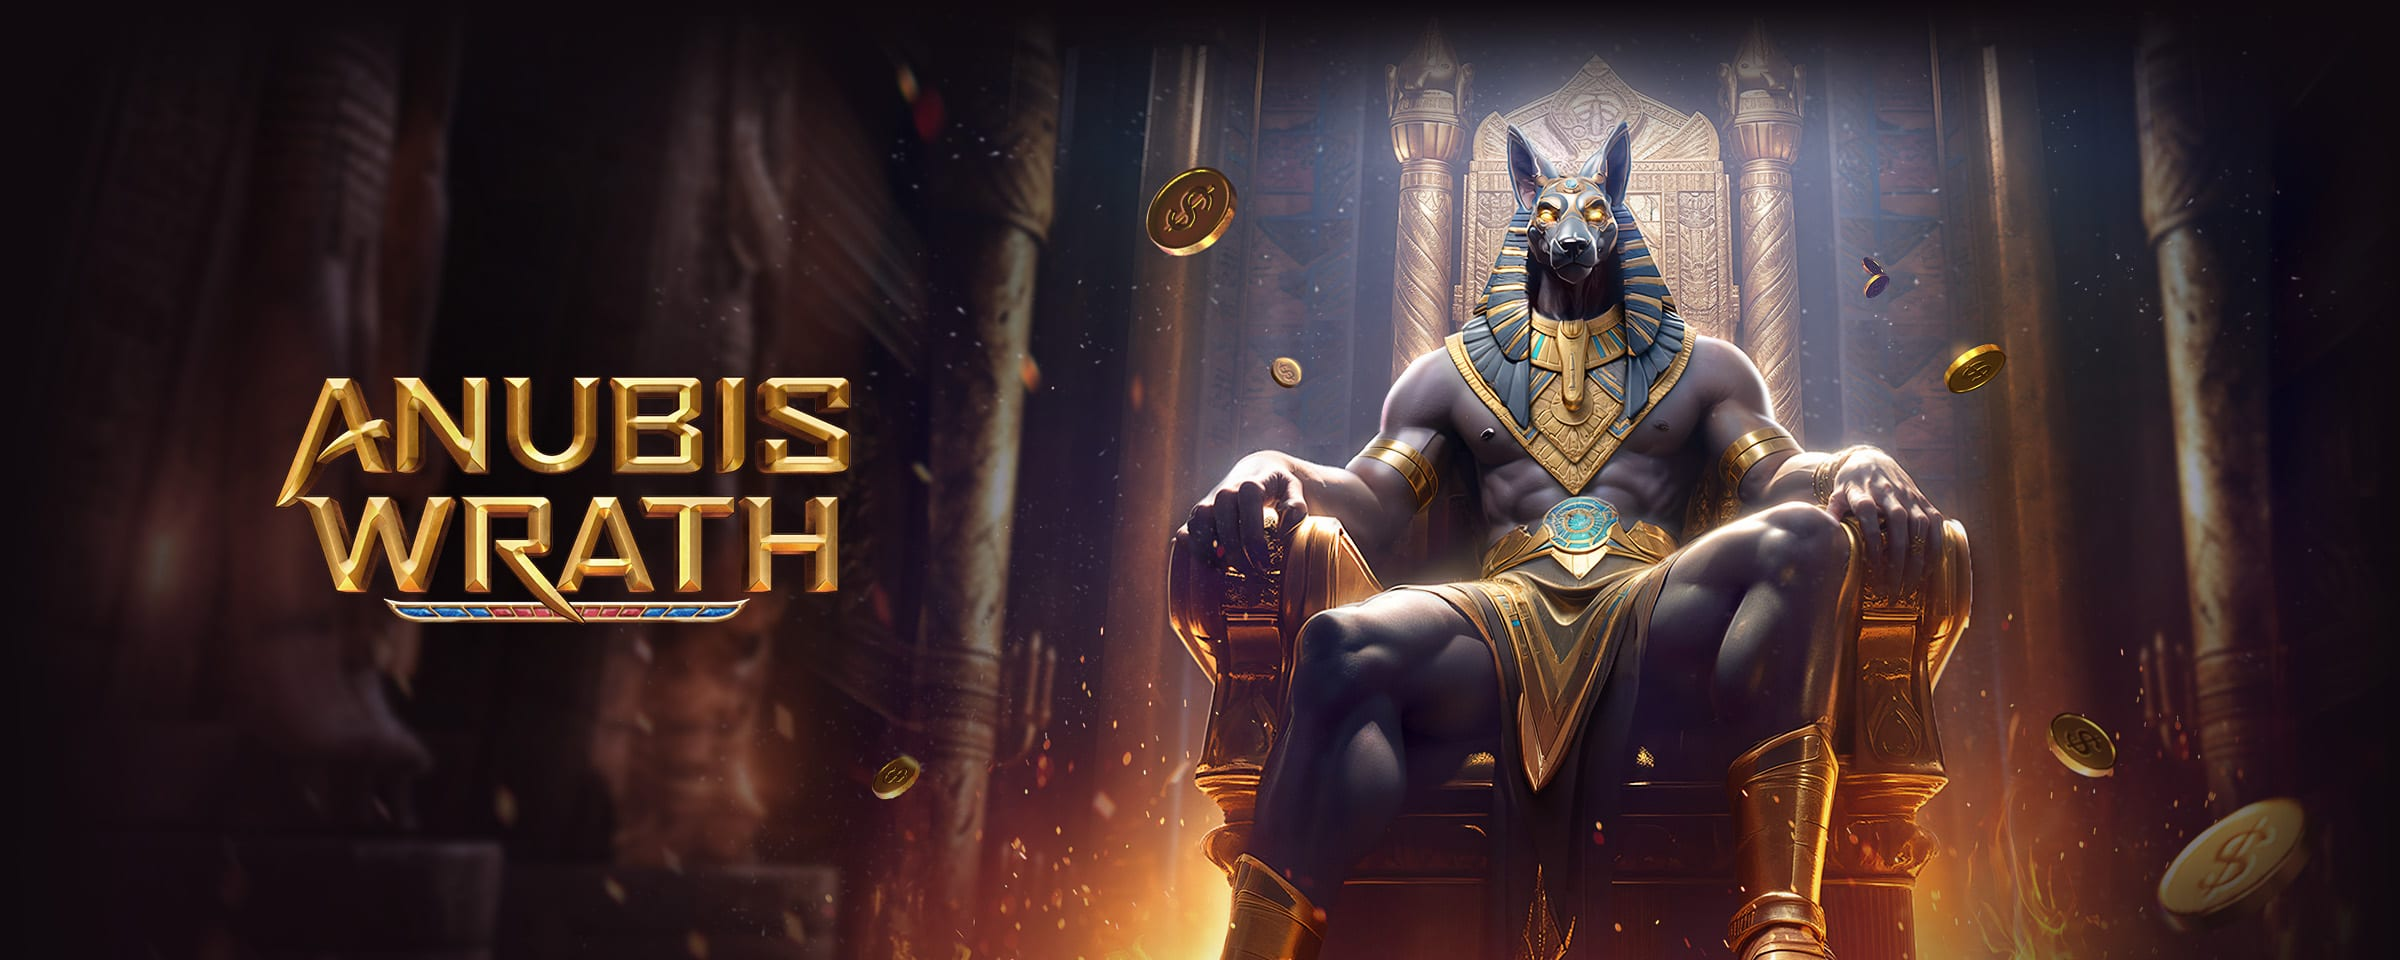
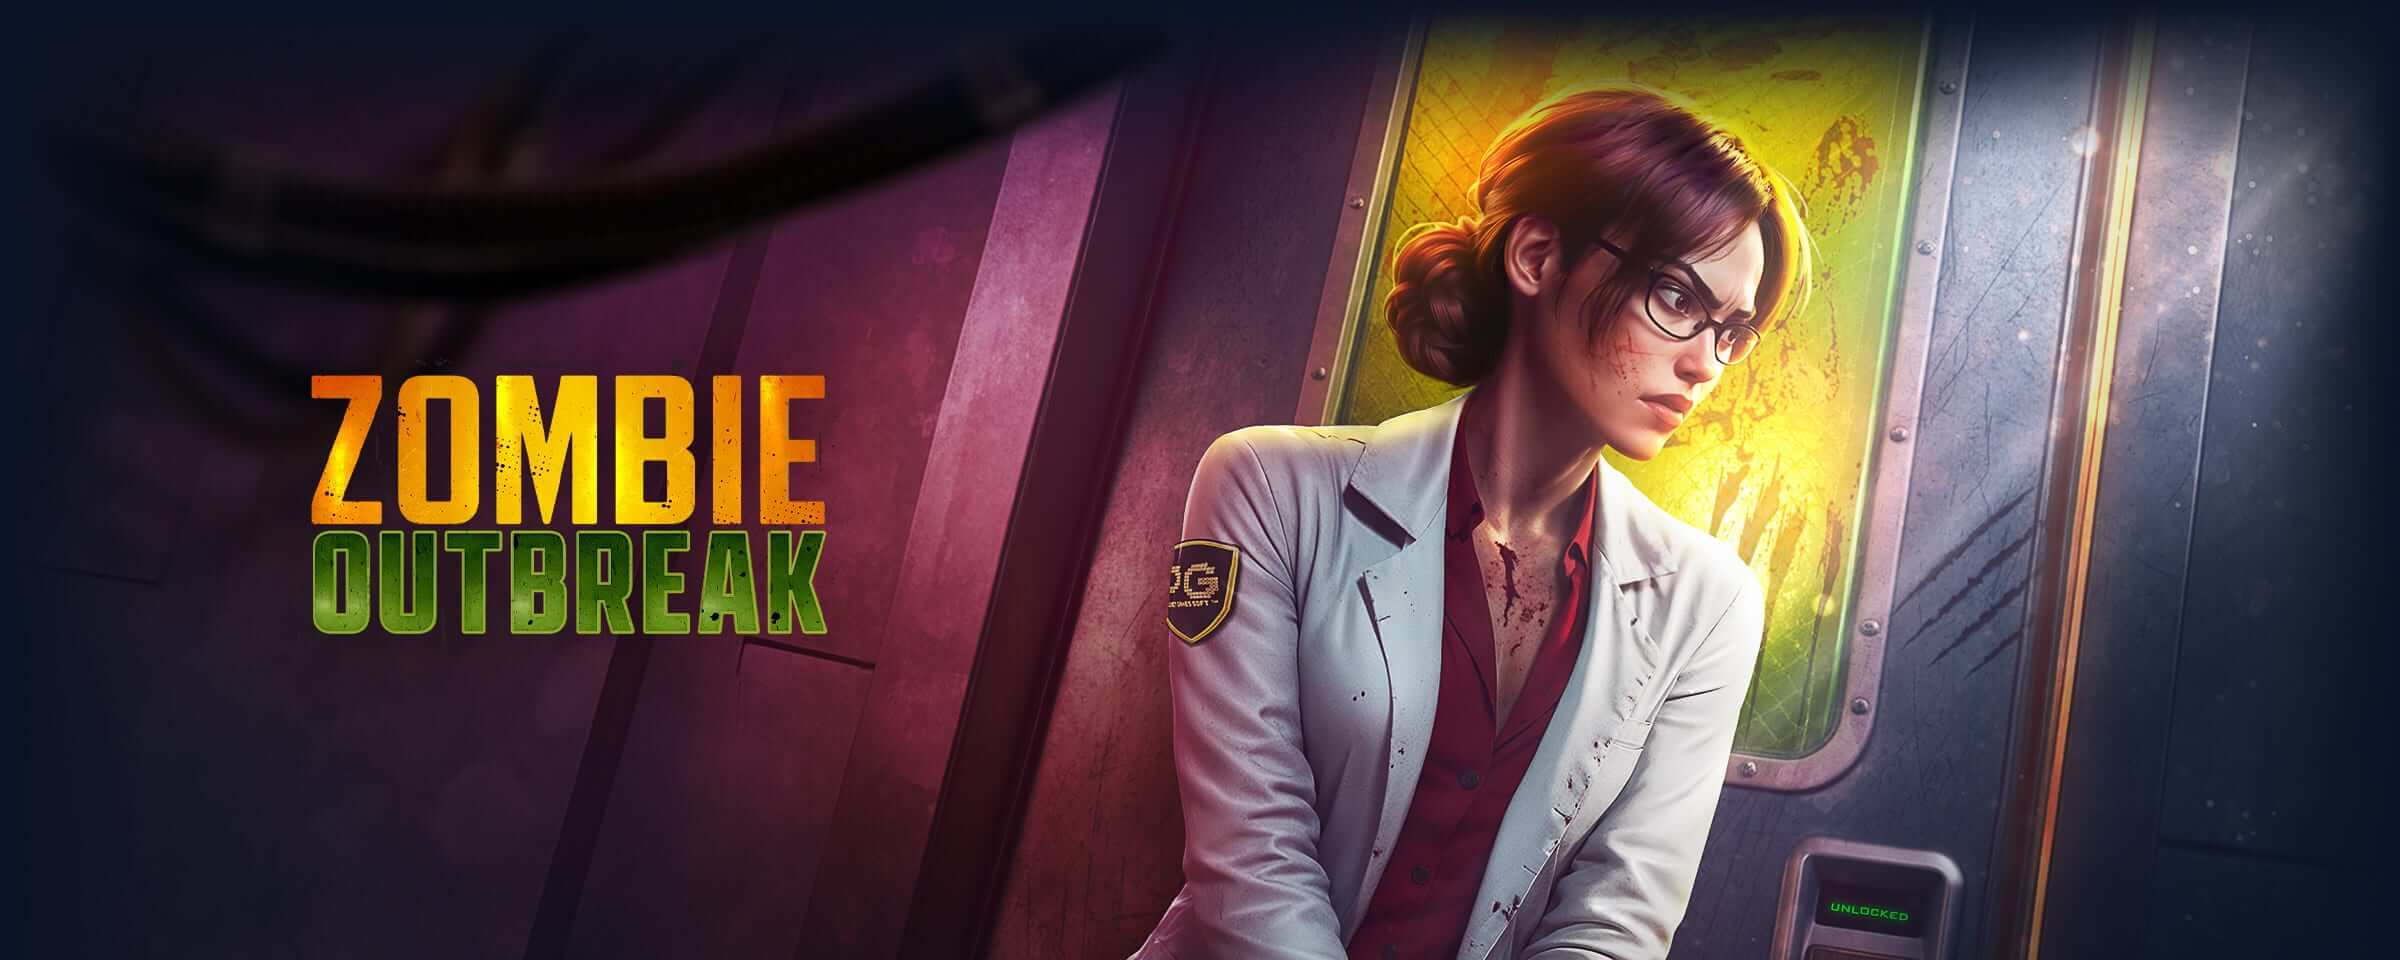
Update slider code and add images

diff --git a/pages/index.tsx b/pages/index.tsx
@@ -4,18 +4,15 @@ import React from "react";
 import Header from "@/components/Header";
 import BackgroundImage from "@/components/BackgroundImage";
 import Slides from "@/components/Slides";
-import SlideInfo from "@/components/SlideInfo";
 import Controls from "@/components/Controls";
 
 const inter = Righteous({
   subsets: ["latin"],
   weight: ["400"],
 });
+
 export type Data = {
   img: string;
-  title: string;
-  description: string;
-  location: string;
 };
 
 export type CurrentSlideData = {
@@ -25,36 +22,30 @@ export type CurrentSlideData = {
 
 export default function Home() {
   const [data, setData] = React.useState<Data[]>(sliderData.slice(1));
-  const [transitionData, setTransitionData] = React.useState<Data>(
-    sliderData[0]
-  );
-  const [currentSlideData, setCurrentSlideData] =
-    React.useState<CurrentSlideData>({
-      data: initData,
-      index: 0,
-    });
+  const [transitionData, setTransitionData] = React.useState<Data>(sliderData[0]);
+  const [currentSlideData, setCurrentSlideData] = React.useState<CurrentSlideData>({
+    data: initData,
+    index: 0,
+  });
 
   return (
     <main
-      className={`
-       ${inter.className}
-        relative min-h-screen select-none overflow-hidden text-white antialiased`}
+      className={`${
+        inter.className
+      } relative min-h-screen select-none overflow-hidden text-white antialiased`}
     >
       <AnimatePresence>
         <BackgroundImage
           transitionData={transitionData}
           currentSlideData={currentSlideData}
         />
-        <div className="  absolute z-20  h-full w-full">
+        <div className="absolute z-20 h-full w-full">
           <Header />
-          <div className=" flex h-full w-full grid-cols-10 flex-col md:grid">
-            <div className=" col-span-4 mb-3 flex h-full flex-1 flex-col justify-end px-5 md:mb-0 md:justify-center md:px-10">
-              <SlideInfo
-                transitionData={transitionData}
-                currentSlideData={currentSlideData}
-              />
+          <div className="flex h-full w-full grid-cols-10 flex-col md:grid">
+            <div className="col-span-4 mb-3 flex h-full flex-1 flex-col justify-end px-5 md:mb-0 md:justify-center md:px-10">
+              {/* Removed SlideInfo component as it is using removed data */}
             </div>
-            <div className=" col-span-6 flex h-full flex-1 flex-col justify-start p-4 md:justify-center md:p-10">
+            <div className="col-span-6 flex h-full flex-1 flex-col justify-start p-4 md:justify-center md:p-10">
               <Slides data={data} />
               <Controls
                 currentSlideData={currentSlideData}
@@ -77,87 +68,45 @@ export default function Home() {
 const sliderData = [
   {
     img: "/1.jpg",
-    location: "Switzrerland Apls",
-    description:
-      "The journey to Machu Picchu typically starts in the mountain city of Cusco, which was the capital city of the Inca Empire",
-    title: "SAINT ANTÖNEN",
   },
   {
     img: "/2.jpg",
-    title: "The Grand Canyon",
-    description:
-      "The earth's geological history opens before your eyes in a mile-deep chasm",
-    location: "Arizona",
   },
   {
     img: "/3.jpg",
-    title: "Masai Mara",
-    description:
-      "Wild animals in their natural environment, luxury safari lodges",
-    location: "Kenya",
   },
   {
     img: "/4.jpg",
-    title: "Angkor Wat",
-    description:
-      "A stunning ancient jungle city with hundreds of intricately constructed temples",
-    location: "Cambodia",
   },
   {
     img: "/5.jpg",
-    title: "Bali",
-    description:
-      "Tropical beaches, volcano hikes, ancient temples, and friendly people",
-    location: "Indonesia",
   },
   {
     img: "/6.jpg",
-    title: "Bali",
-    description:
-      "Tropical beaches, volcano hikes, ancient temples, and friendly people",
-    location: "Indonesia",
   },
   {
     img: "/7.jpg",
-    title: "Bali",
-    description:
-      "Tropical beaches, volcano hikes, ancient temples, and friendly people",
-    location: "Indonesia",
   },
   {
-    img: "/8.jpg",
-    title: "Bali",
-    description:
-      "Tropical beaches, volcano hikes, ancient temples, and friendly people",
-    location: "Indonesia",
+    img: "/8.webp",
   },
   {
     img: "/9.webp",
-    title: "Bali",
-    description:
-      "Tropical beaches, volcano hikes, ancient temples, and friendly people",
-    location: "Indonesia",
   },
   {
     img: "/10.jpg",
-    title: "Bali",
-    description:
-      "Tropical beaches, volcano hikes, ancient temples, and friendly people",
-    location: "Indonesia",
   },
   {
     img: "/11.webp",
-    title: "Bali",
-    description:
-      "Tropical beaches, volcano hikes, ancient temples, and friendly people",
-    location: "Indonesia",
   },
   {
     img: "/12.webp",
-    title: "Bali",
-    description:
-      "Tropical beaches, volcano hikes, ancient temples, and friendly people",
-    location: "Indonesia",
+  },
+  {
+    img: "/13.jpg",
+  },
+  {
+    img: "/14.webp",
   },
 ];
 

diff --git a/components/Header.tsx b/components/Header.tsx
@@ -12,7 +12,7 @@ function Header() {
       </Head>
       <div className="  flex items-center gap-2 font-medium tracking-[4px]">
         <IoIosGlobe className=" text-xl" />
-        Trust me
+        pg444th
       </div>
       <ul className=" flex flex-wrap items-center gap-3 text-[11px] md:gap-10">
         {menus.map((menu, index) => {
@@ -28,10 +28,7 @@ function Header() {
             </motion.li>
           );
         })}
-        <div className=" flex items-center gap-6">
-          <IoMdSearch className=" text-lg" />
-          <IoMdPerson className=" text-lg" />
-        </div>
+        
       </ul>
     </div>
   );
@@ -40,10 +37,9 @@ function Header() {
 export default Header;
 
 const menus = [
-  "Home",
-  "Holdidays",
-  "Destinations",
-  "Flights",
-  "Offers",
-  "Contacts",
+  "หน้าหลัก",
+  "สล็อต",
+  "บาคาร่า",
+  "เกมยิงปลา",
+  "โปรโมรชั่น",
 ];

diff --git a/components/SliderCard.tsx b/components/SliderCard.tsx
@@ -33,10 +33,6 @@ function SliderCard({ data }: Props) {
       />
       <motion.div className=" absolute z-10 flex h-full items-end p-4">
         <motion.div>
-          <motion.div
-            layout
-            className=" mb-2 h-[2px] w-3 rounded-full bg-white"
-          ></motion.div>
           <motion.p layoutId={data.location} className="text-xs text-[#D5D5D6]">
             {data.location}
           </motion.p>
